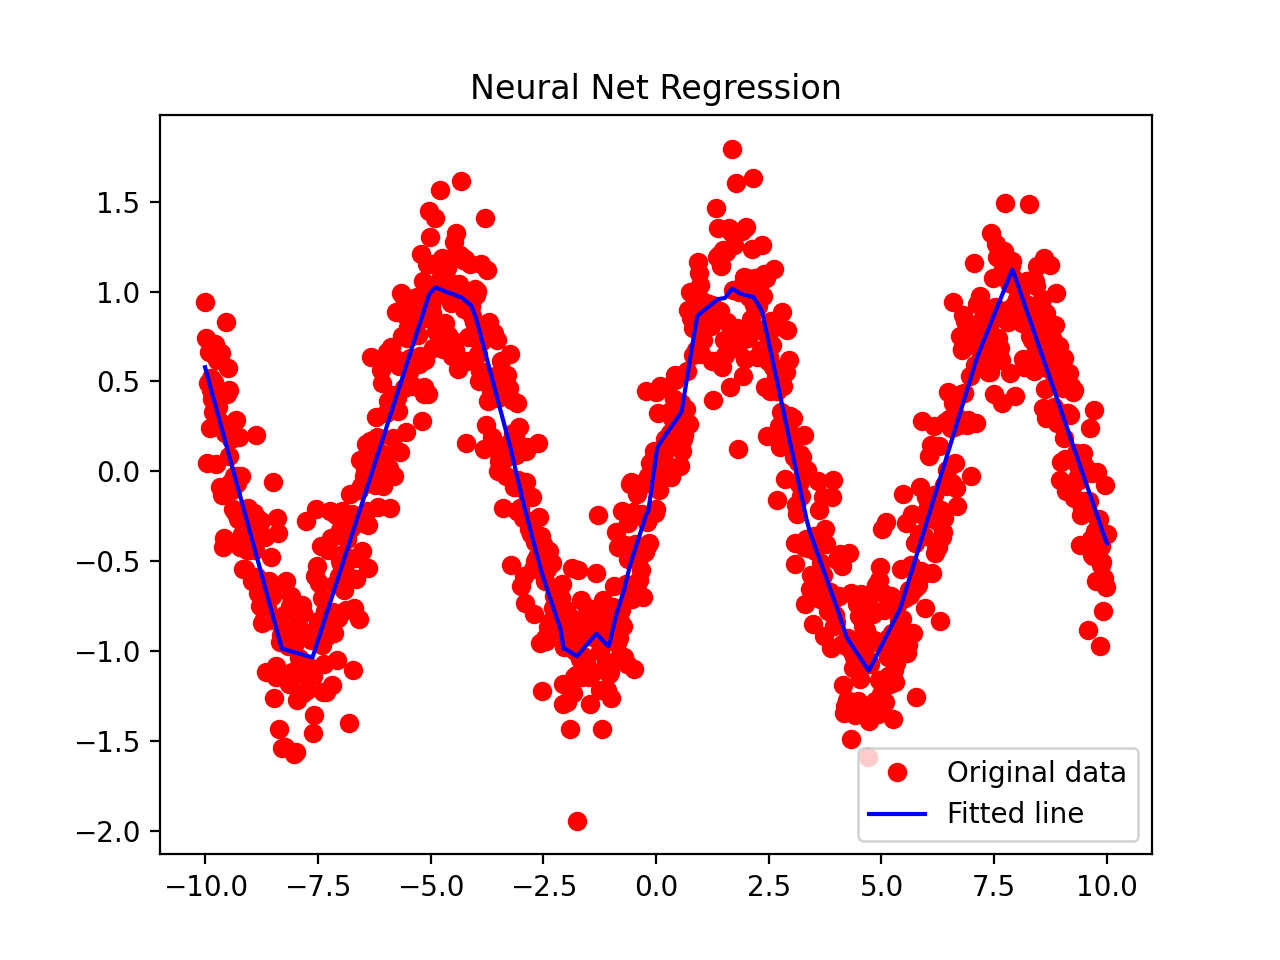
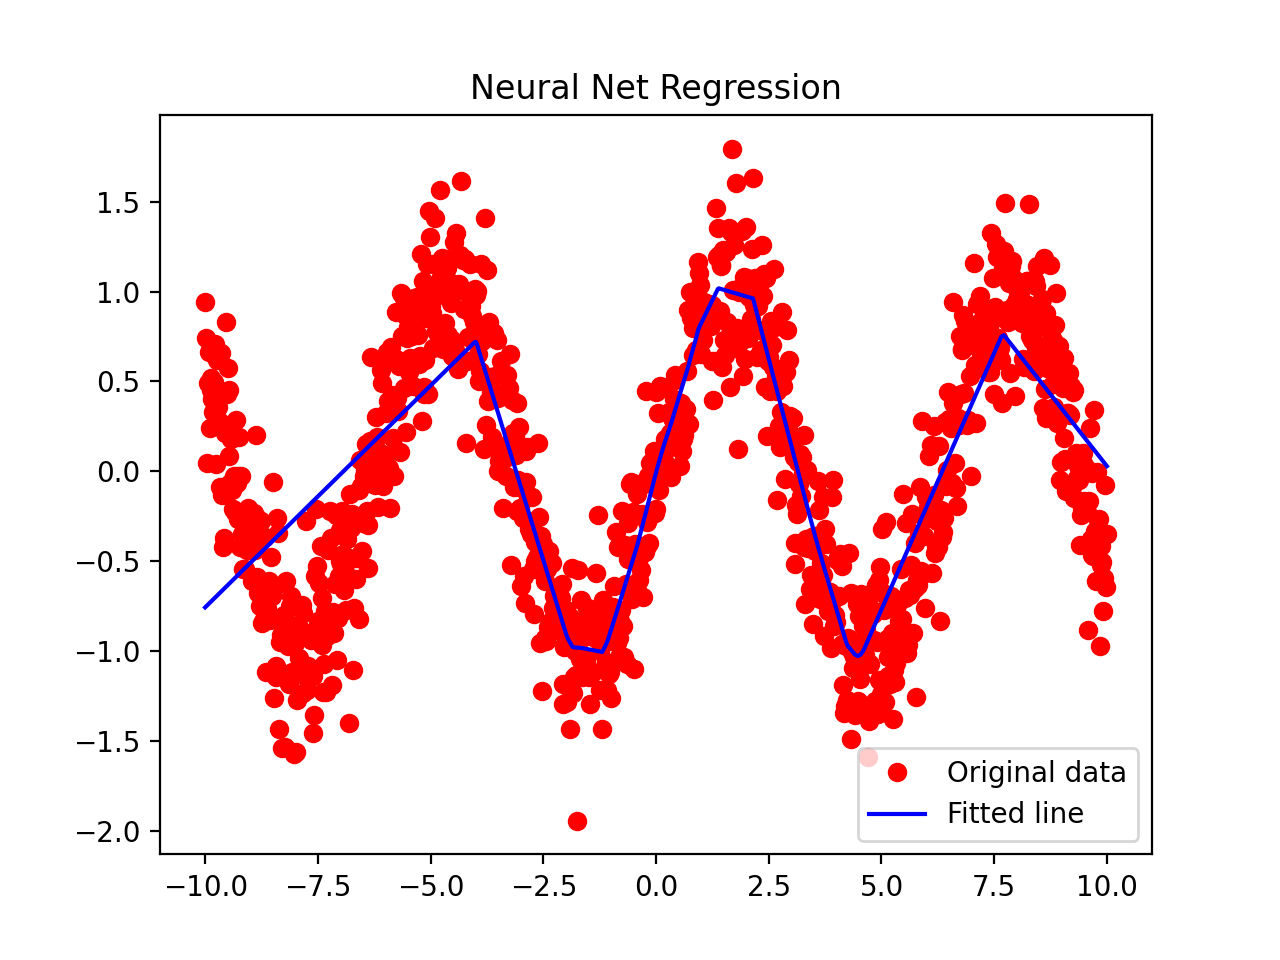
Various updates

diff --git a/3DOut.py b/3DOut.py
@@ -1,0 +1,90 @@
+import torch
+import torch.nn as nn
+import torch.optim as optim
+import numpy as np
+import matplotlib.pyplot as plt
+
+#example data
+np.random.seed(0)
+X = np.random.rand(100, 3)  # 1000 samples, 3 features
+
+#target data
+weights = np.array([[1, 2, 3], [-1, -2, -3], [4, 5, -6]])
+biases = np.array([0.1, -0.2, 0.3])
+y = X @ weights.T + biases  # A linear combination plus some bias
+
+#numpy to torch
+X_train = torch.tensor(X, dtype=torch.float32)
+y_train = torch.tensor(y, dtype=torch.float32)
+
+#define
+class threeout(nn.Module):
+    def __init__(self):
+        super(threeout, self).__init__()
+        self.fc1 = nn.Linear(3, 64)  # Input layer
+        self.fc2 = nn.Linear(64, 32) # Hidden layer
+        self.fc3 = nn.Linear(32, 3)  # Output layer (3 features)
+
+    def forward(self, x):
+        x = torch.relu(self.fc1(x))
+        x = torch.relu(self.fc2(x))
+        x = self.fc3(x)
+        return x
+
+# Create an instance of the model
+model = threeout()
+
+#criteria and optimizer
+crit = nn.MSELoss()
+optim = optim.Adam(model.parameters(), lr=0.01)
+
+#train
+epochs = 500
+for epoch in range(epochs):
+    model.train()
+    optim.zero_grad()
+    outputs = model(X_train)
+    loss = crit(outputs, y_train)
+    loss.backward()
+    optim.step()
+
+    if (epoch+1) % 50 == 0:
+        print(f'Epoch [{epoch+1}/{epochs}], Loss: {loss.item():.4f}')
+
+#evaluate
+model.eval()
+with torch.no_grad():
+    predicted = model(X_train).numpy()
+
+#error
+mse = np.mean((predicted - y_train.numpy())**2)
+print(f'Mean Squared Error: {mse:.4f}')
+
+#plot
+
+plt.figure(figsize=(15, 5))
+
+plt.subplot(1, 3, 1)
+plt.scatter(X_train[:, 0], predicted[:, 0], alpha=0.5, color='blue')
+plt.scatter(X_train[:, 0], y_train[:, 0], alpha=0.5, color='red')
+plt.title('Dimension 1')
+
+plt.subplot(1, 3, 2)
+plt.scatter(X_train[:, 1], predicted[:, 1], alpha=0.5, color='blue')
+plt.scatter(X_train[:, 1], y_train[:, 1], alpha=0.5, color='red')
+plt.title('Dimension 2')
+
+plt.subplot(1, 3, 3)
+plt.scatter(X_train[:, 2], predicted[:, 2], alpha=0.5, color='blue')
+plt.scatter(X_train[:, 2], y_train[:, 2], alpha=0.5, color='red')
+plt.title('Dimension 3')
+
+plt.tight_layout()
+plt.show()
+
+# 3D
+fig = plt.figure()
+ax = fig.add_subplot(111, projection='3d')
+ax.scatter(y_train[:, 0], y_train[:, 1], y_train[:,2], color='red')
+ax.scatter(predicted[:, 0], predicted[:,1], predicted[:,2], color='blue')
+plt.show()

diff --git a/getdata.py b/getdata.py
@@ -1,0 +1,33 @@
+
+import os
+import requests
+
+# URL of the ZIP file
+api_url = 'http://spdf.gsfc.nasa.gov/pub/data/aaa_special-purpose-datasets/empirical-magnetic-field-modeling-database-with-TS07D-coefficients/database/ascii/'
+
+base_url = 'http://spdf.gsfc.nasa.gov/pub/data/aaa_special-purpose-datasets/empirical-magnetic-field-modeling-database-with-TS07D-coefficients/database/ascii/'
+
+save_dir = '/Users/dunnchadnstrnad/Documents/GitHub/2024phys798'
+
+
+os.makedirs(save_dir, exist_ok=True)
+
+# Step 1: Get the list of files from the API
+response = requests.get(api_url)
+if response.status_code == 200:
+    file_list = response.json()  # Assuming the API returns a JSON array of filenames
+
+    for file_name in file_list:
+        file_url = base_url + file_name
+        # Step 2: Download each file
+        file_response = requests.get(file_url)
+        if file_response.status_code == 200:
+            save_path = os.path.join(save_dir, file_name)
+            # Step 3: Save each file
+            with open(save_path, 'wb') as file:
+                file.write(file_response.content)
+            print(f"Downloaded {save_path}")
+        else:
+            print(f"Failed to download {file_url}. Status code: {file_response.status_code}")
+else:
+    print(f"Failed to retrieve the directory listing from the API. Status code: {response.status_code}")

diff --git a/3DReg.py b/3DReg.py
@@ -8,19 +8,19 @@ import matplotlib.pyplot as plt
 # Step 1: Generate some example 3D data
 np.random.seed(0)
 X = np.random.rand(1000, 3)  # 1000 samples, 3 features
-y = X @ np.array([3.5, -2.1, 5.7]) + 0.5  # A linear combination plus some noise
+y = X @ np.array([1, 1, 1]) + 0.5  # A linear combination plus some noise
 
 # Convert numpy arrays to PyTorch tensors
 X_train = torch.tensor(X, dtype=torch.float32)
 y_train = torch.tensor(y, dtype=torch.float32).view(-1, 1)
 
 # Step 2: Define the neural network model
-class SimpleRegressor(nn.Module):
+class Reg3D(nn.Module):
     def __init__(self):
-        super(SimpleRegressor, self).__init__()
+        super(Reg3D, self).__init__()
         self.fc1 = nn.Linear(3, 64)  # Input layer
         self.fc2 = nn.Linear(64, 32) # Hidden layer
-        self.fc3 = nn.Linear(32, 1)  # Output layer
+        self.fc3 = nn.Linear(32, 3)  # Output layer
 
     def forward(self, x):
         x = torch.relu(self.fc1(x))
@@ -29,7 +29,7 @@ class SimpleRegressor(nn.Module):
         return x
 
 # Create an instance of the model
-model = SimpleRegressor()
+model = Reg3D()
 
 # Step 3: Define the loss function and optimizer
 criterion = nn.MSELoss()

diff --git a/NLR.py b/NLR.py
@@ -24,14 +24,12 @@ class NonlinRegModel(nn.Module):
     def __init__(self):
         super(NonlinRegModel, self).__init__()
         self.layer1 = nn.Linear(1, 64)
-        self.layer2 = nn.Linear(64, 64)
-        self.layer3 = nn.Linear(64, 1)
+        self.layer2 = nn.Linear(64, 1)
         self.activation = nn.ReLU()
     
     def forward(self, x):
         x = self.activation(self.layer1(x))
-        x = self.activation(self.layer2(x))
-        x = self.layer3(x)
+        x = self.layer2(x)
         return x
 
 model = NonlinRegModel()
@@ -53,7 +51,7 @@ maes = []
 r2s = []
 
 #Train model
-num_epochs = 1500
+num_epochs = 2000
 for epoch in range(num_epochs):
     model.train()
     

diff --git a/2DReg.py b/2DReg.py
@@ -15,9 +15,9 @@ x_train = torch.tensor(x, dtype=torch.float32)
 y_train = torch.tensor(y, dtype=torch.float32).view(-1, 1)
 
 # Define model
-class SimpleNN(nn.Module):
+class Reg2D(nn.Module):
     def __init__(self):
-        super(SimpleNN, self).__init__()
+        super(Reg2D, self).__init__()
         self.hidden = nn.Linear(2, 32)
         self.output = nn.Linear(32, 1)
         self.relu = nn.ReLU()
@@ -28,7 +28,7 @@ class SimpleNN(nn.Module):
         return x
 
 # Initialize
-model = SimpleNN()
+model = Reg2D()
 crit = nn.MSELoss()
 optim = optim.Adam(model.parameters(), lr=0.01)
 loss_values = []
